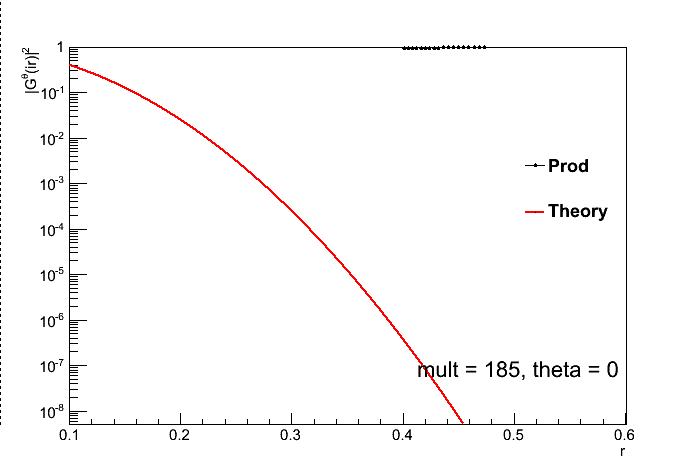
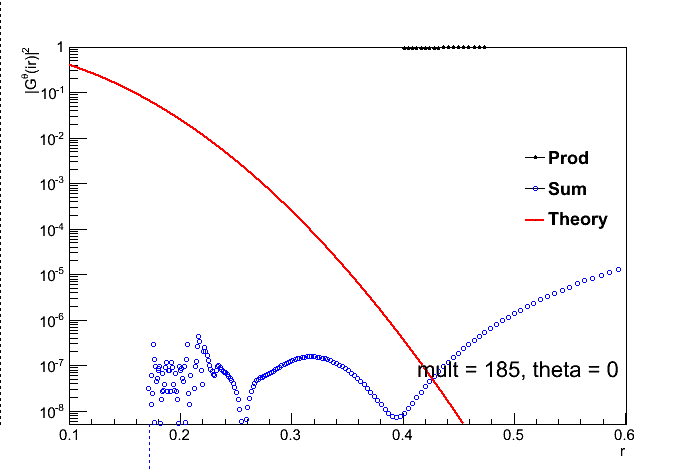
V2 vs theta MC

diff --git a/flow/LYZ/v2/ToyMCHole/pPbDataV205m185/plotV2vsNtrk.C b/flow/LYZ/v2/ToyMCHole/pPbDataV205m185/plotV2vsNtrk.C
@@ -1,0 +1,36 @@
+#include "par.h"
+void plotV2vsNtrk(){
+    gStyle->SetOptFit(1);
+    gStyle->SetOptStat(0);
+    gStyle->SetOptTitle(0);
+    gStyle->SetErrorX(0);
+    int xbin = 0;
+    TFile *f = new TFile("mergedV_Prod.root");
+    TVectorD *vecV = (TVectorD*)f->Get(Form("D_%d/V"));
+    TVectorD *vecdeltaV = (TVectorD*)f->Get(Form("D_%d/deltaV"));
+    TVectorD *vecVmean = (TVectorD*)f->Get(Form("Vmean"));
+    double *V = vecV->GetMatrixArray();
+    double *deltaV = vecdeltaV->GetMatrixArray();
+    double *Vmean = vecVmean->GetMatrixArray();
+    double theta[ntheta];
+    for(int itheta=0;itheta<ntheta;itheta++){
+        theta[itheta]=itheta*TMath::Pi()/ntheta/nn;
+    }
+    TH1D *hFrame = new TH1D("","",300,-1,2);
+    hFrame->GetXaxis()->SetTitle("#theta");
+    hFrame->GetYaxis()->SetTitle("referenceV_{2}");	
+    hFrame->GetXaxis()->SetTitleSize(0.04);
+    hFrame->GetYaxis()->SetTitleSize(0.04);
+    hFrame->GetXaxis()->SetRangeUser(-0.1,1.5);
+    hFrame->SetMaximum(0.055);
+    hFrame->SetMinimum(0.045);
+    hFrame->Draw();
+    TGraphErrors *gr = new TGraphErrors(ntheta,theta,V,0,deltaV);
+    gr->SetMarkerSize(1.2);
+    gr->SetMarkerStyle(20);
+    gr->Draw("Psame");
+    TLine *l = new TLine(0,inV2,1.4,inV2);
+    l->SetLineStyle(2);
+    l->Draw("same");
+    c1->Print("V2vstheta.png");
+}

diff --git a/flow/LYZ/v2/pPbDataV205m185/plotV2vsNtrk.C b/flow/LYZ/v2/pPbDataV205m185/plotV2vsNtrk.C
@@ -1,0 +1,36 @@
+#include "par.h"
+void plotV2vsNtrk(){
+    gStyle->SetOptFit(1);
+    gStyle->SetOptStat(0);
+    gStyle->SetOptTitle(0);
+    gStyle->SetErrorX(0);
+    int xbin = 0;
+    TFile *f = new TFile("mergedV_Prod.root");
+    TVectorD *vecV = (TVectorD*)f->Get(Form("D_%d/V"));
+    TVectorD *vecdeltaV = (TVectorD*)f->Get(Form("D_%d/deltaV"));
+    TVectorD *vecVmean = (TVectorD*)f->Get(Form("Vmean"));
+    double *V = vecV->GetMatrixArray();
+    double *deltaV = vecdeltaV->GetMatrixArray();
+    double *Vmean = vecVmean->GetMatrixArray();
+    double theta[ntheta];
+    for(int itheta=0;itheta<ntheta;itheta++){
+        theta[itheta]=itheta*TMath::Pi()/ntheta/nn;
+    }
+    TH1D *hFrame = new TH1D("","",300,-1,2);
+    hFrame->GetXaxis()->SetTitle("#theta");
+    hFrame->GetYaxis()->SetTitle("referenceV_{2}");	
+    hFrame->GetXaxis()->SetTitleSize(0.04);
+    hFrame->GetYaxis()->SetTitleSize(0.04);
+    hFrame->GetXaxis()->SetRangeUser(-0.1,1.5);
+    hFrame->SetMaximum(0.055);
+    hFrame->SetMinimum(0.045);
+    hFrame->Draw();
+    TGraphErrors *gr = new TGraphErrors(ntheta,theta,V,0,deltaV);
+    gr->SetMarkerSize(1.2);
+    gr->SetMarkerStyle(20);
+    gr->Draw("Psame");
+    TLine *l = new TLine(0,inV2,1.4,inV2);
+    l->SetLineStyle(2);
+    l->Draw("same");
+    c1->Print("V2vstheta.png");
+}

diff --git a/flow/LYZ/v2/ToyMCHole/pPbDataV205m300/getResV.C b/flow/LYZ/v2/ToyMCHole/pPbDataV205m300/getResV.C
@@ -71,8 +71,8 @@ void getResV(){
 	}
 
         for(int ifile=0; ifile<nFileAll; ifile++){
-		if(isSum) f[ifile] = TFile::Open(Form("/scratch/xuq7/flow/pbsjoboutput/ToyMCHole/pPbDataV205m185/AnaV_Sum_%d.root",ifile));
-		else f[ifile] = TFile::Open(Form("/scratch/xuq7/flow/pbsjoboutput/ToyMCHole/pPbDataV205m185/AnaV_Prod_%d.root",ifile));
+		if(isSum) f[ifile] = TFile::Open(Form("/scratch/xuq7/flow/pbsjoboutput/ToyMCHole/pPbDataV205m300/AnaV_Sum_%d.root",ifile));
+		else f[ifile] = TFile::Open(Form("/scratch/xuq7/flow/pbsjoboutput/ToyMCHole/pPbDataV205m300/AnaV_Prod_%d.root",ifile));
 		TVectorD* Nevent_t =  (TVectorD*)f[ifile]->Get(Form("Nevent"));
 		TVectorD* totmultall_t =  (TVectorD*)f[ifile]->Get(Form("totmultall"));
 		TVectorD* tottrk_t =  (TVectorD*)f[ifile]->Get(Form("tottrk"));

diff --git a/flow/LYZ/v2/pPbDataV200m185/plotgvsr_MC.C b/flow/LYZ/v2/pPbDataV200m185/plotgvsr_MC.C
@@ -23,7 +23,7 @@ TGraph *gr[nnu];
 double r0[nnu];
 double G2[nnu];
 TLine *l[nnu];
-for(int i=0;i<nnu-1;i++){
+for(int i=0;i<nnu;i++){
 gr[i]=plotGF(i,xtheta,r0+i,G2+i,marker[i],color[i]);
 gr[i]->Draw("Psame");
 }
@@ -32,7 +32,7 @@ TLegend *tg = new TLegend(0.75,0.70-0.10*nnu,0.90,0.70);
 tg->SetFillColor(0);
 tg->SetBorderSize(0);
 tg->SetTextSize(0.04);
-for(int i=0;i<nnu-1;i++)
+for(int i=0;i<nnu;i++)
 if(i==0)
 tg->AddEntry(gr[i],Form("Prod"),"lp");
 else
@@ -88,7 +88,7 @@ for(int ir=0;ir<nstepr;ir++)
     if(r[ir] == r01[xtheta]) break;
 (*G2_theta) = g2[ir];
 TGraph *gr = new TGraph(nstepr,r,g2);
-if(!isSum){
+if(isSum){
 gcl->SetNpx(100000);
 gcl->SetParameters(sigma2[xtheta]-inV2*inV2*avgmult[xbin]*avgmult[xbin],inV2*avgmult[xbin]);
 linv->SetX1(j01/avgmult[xbin]/inV2);

diff --git a/flow/LYZ/v2/plotV2vstheta_Ntrk.C b/flow/LYZ/v2/plotV2vstheta_Ntrk.C
@@ -19,7 +19,6 @@ makeMultiPanelCanvas(c1,3,2,0,0,0.25,0.2,0.03);
     gStyle->SetOptTitle(0);
     gStyle->SetErrorX(0);
     TH1D *hFrame = new TH1D("","",300,-1,2);
-    hFrame->SetTitle("v_{2} vs momentum");
     hFrame->GetXaxis()->SetTitle("#theta");
     hFrame->GetYaxis()->SetTitle("referenceV_{2}");	
     hFrame->GetXaxis()->SetTitleSize(0.04);

diff --git a/flow/LYZ/v2/pPbDataV200m150/par.h b/flow/LYZ/v2/pPbDataV200m150/par.h
@@ -19,7 +19,7 @@ const int nbin = 1;
 //const int trkbin[]={185,180,175,170,165,160,155,150};
 const int nn=2;
 const int mm=1;
-const int isSum=0;
+const int isSum=1;
 const double j01=2.404826;
 const int ntheta = 5;
 const int nstepr=200;
